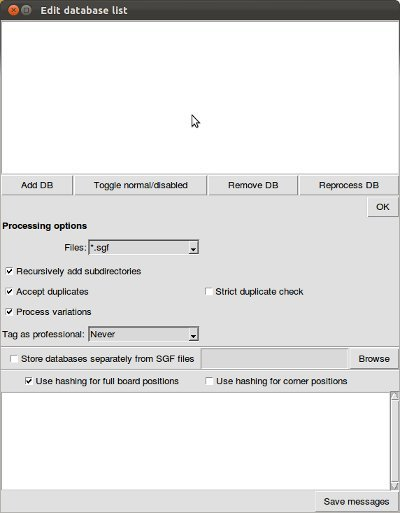
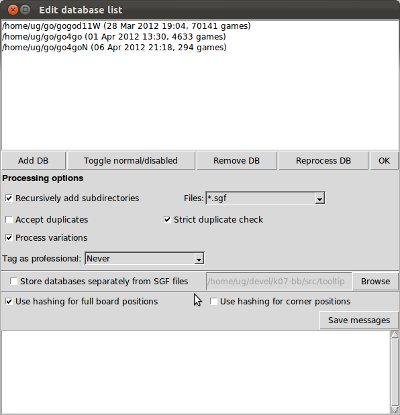
Improve layout of edit-db-list window.

diff --git a/src/kombilo.py b/src/kombilo.py
@@ -1907,16 +1907,14 @@ class App(v.Viewer, KEngine):
         f2.grid(row=1, sticky=NSEW)
         for i in range(4): f2.columnconfigure(i, weight=1)
 
-        f2a = Frame(window)
-        f2a.grid(row=2, sticky=NSEW)
         f3 = Frame(window)
         f3.grid(row=3, sticky=NSEW)
         f3.columnconfigure(0, weight=1)
         f4 = Frame(window)
         f4.grid(row=4, sticky=NSEW)
+        f5 = Frame(window)
+        f5.grid(row=5, sticky=NSEW)
 
-        window.rowconfigure(0, weight=1)
-        window.rowconfigure(4, weight=2)
         window.columnconfigure(0, weight=1)
                 
         self.db_list = v.ScrolledList(f1)
@@ -1938,16 +1936,20 @@ class App(v.Viewer, KEngine):
         for i, (text, command, ) in enumerate([('Add DB', self.addDB), ('Toggle normal/disabled', self.toggleDisabled),
                                                ('Remove DB', self.removeDB), ('Reprocess DB', self.reprocessDB)]):
             Button(f2, text=text, command=command).grid(row=0, column=i, sticky=NSEW)
+        self.editDB_OK = Button(f2, text='OK', command = self.finalizeEditDB)
+        self.editDB_OK.grid(row=0, column=4, sticky=NSEW)
             
         Label(f3, text='Processing options', justify=LEFT, font=('Helvetica', 10, 'bold')).grid(row=0, column=0, sticky=W)
 
+        recursionButton = Checkbutton(f3, text = "Recursively add subdirectories", highlightthickness=0, variable = self.options.recProcess, pady=5)
+        recursionButton.grid(row=1, column=0, columnspan=2, sticky=W)
 
         self.filenamesVar = StringVar()
         filenamesLabel = Label(f3, anchor='w', text='Files:', pady=10)
-        filenamesLabel.grid(row=1, column=0, sticky=E)
+        filenamesLabel.grid(row=1, column=2, sticky=E)
         filenamesMenu = Combobox(f3, textvariable = self.filenamesVar, values = ['*.sgf', '*.sgf, *.mgt', 'All files'], state='readonly')
         filenamesMenu.set('*.sgf')
-        filenamesMenu.grid(row=1, column=1, sticky=W)
+        filenamesMenu.grid(row=1, column=3, sticky=W)
 
         # self.encodingVar = StringVar()
         # 
@@ -1966,8 +1968,6 @@ class App(v.Viewer, KEngine):
         # encoding1Menu.set('Add CA tag')
         # encoding1Menu.grid(row=1, column=5, sticky=W)
 
-        recursionButton = Checkbutton(f3, text = "Recursively add subdirectories", highlightthickness=0, variable = self.options.recProcess, pady=5)
-        recursionButton.grid(row=2, column=0, columnspan=2, sticky=W)
 
         duplButton = Checkbutton(f3, text="Accept duplicates", highlightthickness=0, variable = self.options.acceptDupl, pady=5)
         duplButton.grid(row=3, column=0, sticky=W, columnspan=2)
@@ -1991,7 +1991,7 @@ class App(v.Viewer, KEngine):
         whereDatabasesButton.grid(row=8, column=0, columnspan=3, sticky=W)
 
         self.whereDatabasesEntry = Entry(f3, textvariable = self.options.whereToStoreDatabases, )
-        self.whereDatabasesEntry.grid(row=8, column=2, columnspan=3, sticky=NSEW)
+        self.whereDatabasesEntry.grid(row=8, column=3, columnspan=3, sticky=NSEW)
         if not self.options.storeDatabasesSeparately.get(): self.whereDatabasesEntry.config(state=DISABLED)
 
         browseButton = Button(f3, text='Browse', command = self.browseDatabases)
@@ -2010,14 +2010,10 @@ class App(v.Viewer, KEngine):
         self.algo_hash_corner = Checkbutton(f3, text = 'Use hashing for corner positions', highlightthickness = 0, variable = self.options.algo_hash_corner, pady=5)
         self.algo_hash_corner.grid(row=10, column = 3, columnspan=2)
 
-        self.processMessages = Message(f4)
-        self.processMessages.pack(side=TOP, expand=YES, fill=BOTH)
-
-        self.editDB_OK = Button(f2a, text='OK', command = self.finalizeEditDB)
-        self.editDB_OK.pack(side=RIGHT)
-
         self.saveProcMess = Button(f4, text='Save messages', command = self.saveMessagesEditDBlist)
         self.saveProcMess.pack(side=RIGHT)
+        self.processMessages = Message(f5)
+        self.processMessages.pack(side=TOP, expand=YES, fill=BOTH)
 
         window.update_idletasks()
         window.focus()
